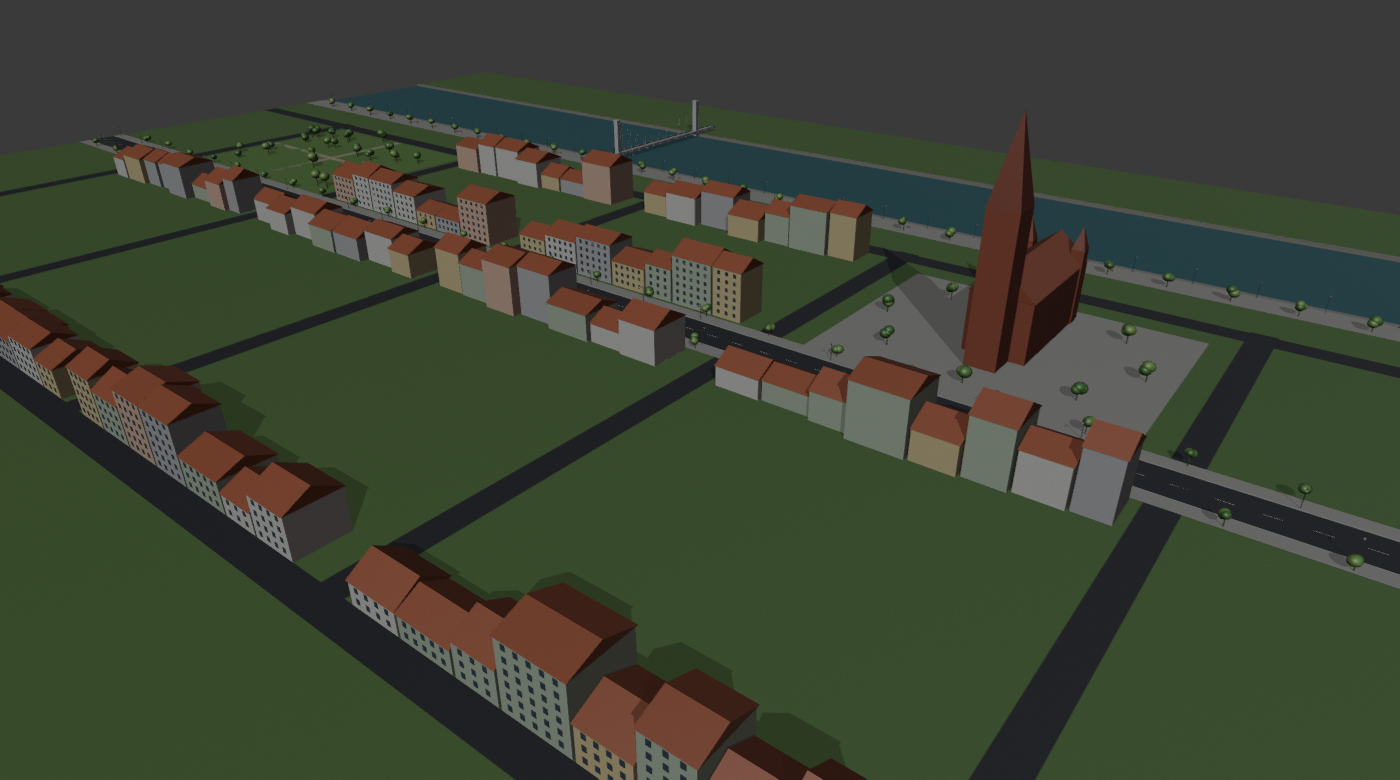
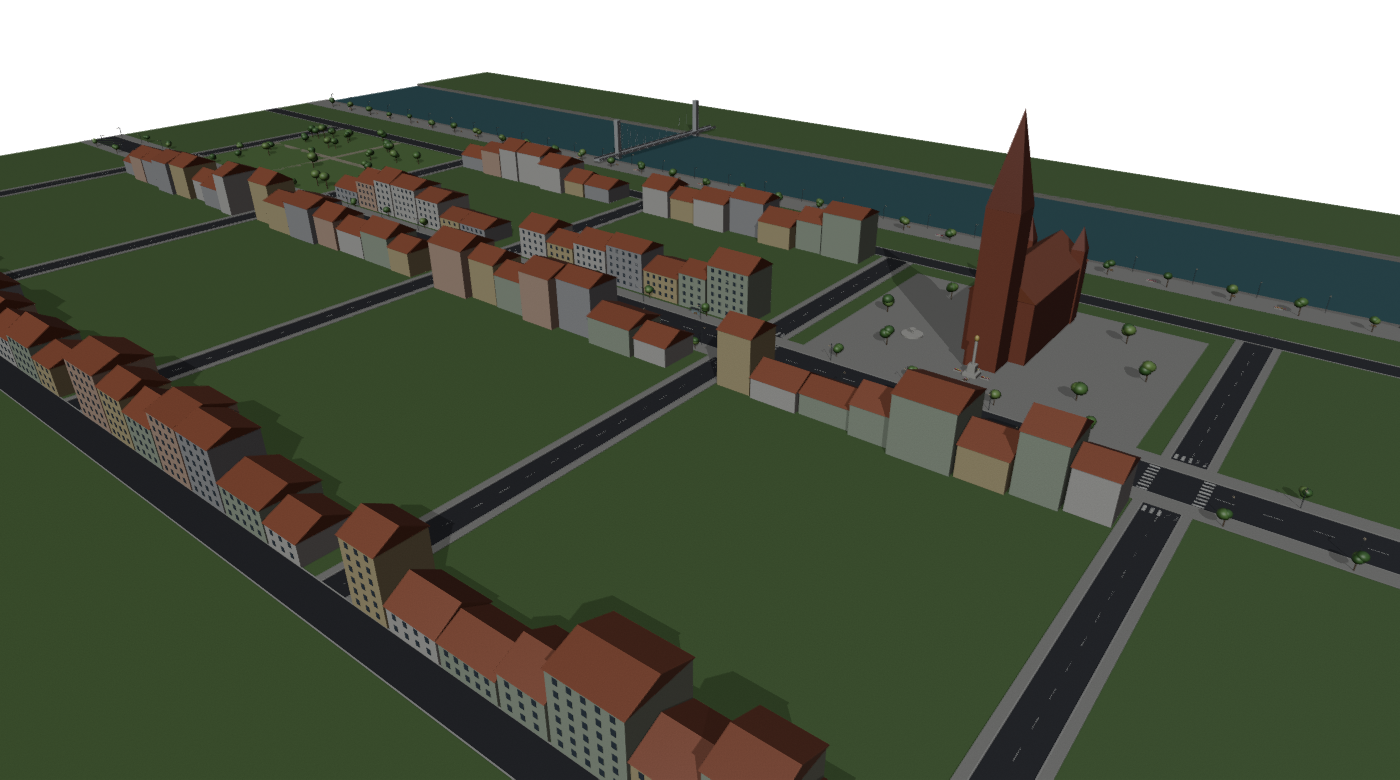
OSRP v1.0.4: /predlozak area templates, more props, Blender roads/crossings/landmarks
Claude-Session: https://claude.ai/code/session_01Q4UdcG53ZdSqpaSMwQCijq

diff --git a/launcher/renderer/index.html b/launcher/renderer/index.html
@@ -9,7 +9,7 @@
 <body>
   <!-- Title bar -->
   <div class="titlebar">
-    <div class="tb-brand"><img src="assets/icon.png" alt="" />OSRP LAUNCHER <span class="ver" id="ver">v1.0.3</span></div>
+    <div class="tb-brand"><img src="assets/icon.png" alt="" />OSRP LAUNCHER <span class="ver" id="ver">v1.0.4</span></div>
     <div class="tb-btns">
       <button id="btnMin" title="Minimiziraj">&#8211;</button>
       <button id="btnClose" class="close" title="Zatvori">&#10005;</button>

diff --git a/fivem-resources/osrp_accounts/server.js b/fivem-resources/osrp_accounts/server.js
@@ -103,7 +103,7 @@ const routes = {
     return [200, { ok: true }];
   },
 
-  'GET /status': () => [200, { ok: true, service: 'osrp_accounts', version: '1.0.3' }]
+  'GET /status': () => [200, { ok: true, service: 'osrp_accounts', version: '1.0.4' }]
 };
 
 SetHttpHandler((req, res) => {

diff --git a/map/blender/osijek_starter.py b/map/blender/osijek_starter.py
@@ -1,5 +1,5 @@
 """
-OSRP - Osijek starter map for Blender (V1.0.3)
+OSRP - Osijek starter map for Blender (V1.0.4)
 
 How to use:
   1. Open Blender (4.x), go to the "Scripting" tab.
@@ -10,6 +10,8 @@ How to use:
      - city blocks: buildings with rows of windows and pitched tile roofs
      - Tvrđa square with the red-brick cathedral and its spire
      - a city park with trees and paths, the pedestrian bridge
+     - v1.0.4: sidewalks + curbs on all streets, zebra crossings, clean intersections,
+       Holy Trinity column + fountain in Tvrđa, flower beds, bus stops
   4. Follow map/BLENDER-MAP.md to convert it with Sollumz and put it in FiveM.
 
 All sizes are in meters (GTA V uses meters too). Lamp heads use an emission
@@ -178,6 +180,12 @@ M_LEAVES = [
     material("osrp_leaves_light", (0.24, 0.42, 0.12)),
 ]
 M_WOOD = material("osrp_bench_wood", (0.40, 0.25, 0.12))
+M_FLOWERS = [material("osrp_flowers_red", (0.75, 0.10, 0.12)), material("osrp_flowers_pink", (0.85, 0.40, 0.60)),
+             material("osrp_flowers_yellow", (0.95, 0.78, 0.15))]
+M_SOIL = material("osrp_soil", (0.22, 0.15, 0.10))
+M_WHITE_STONE = material("osrp_white_stone", (0.82, 0.80, 0.74))
+M_GOLD = material("osrp_gold", (0.85, 0.65, 0.20), rough=0.3, metal=1.0)
+M_GLASS_STOP = material("osrp_busstop_glass", (0.55, 0.70, 0.75), rough=0.05)
 
 
 # ---------------------------------------------------------------- props
@@ -198,10 +206,10 @@ def tree(col, i, x, y, scale=1.0):
         blob(col, f"osrp_drvo_krosnja_{i}_{k}", (x + ox, y + oy, oz), r, random.choice(M_LEAVES), squash=0.85)
 
 
-def bench(col, i, x, y):
-    """bench along x, back on the +y side"""
+def bench(col, i, x, y, back=1):
+    """bench along x; back=+1 backrest on the +y side (you sit facing -y), back=-1 the other way"""
     box(col, f"osrp_klupa_sjed_{i}", (x, y, 0.42), (1.8, 0.45, 0.06), M_WOOD)
-    box(col, f"osrp_klupa_nasl_{i}", (x, y + 0.22, 0.6), (1.8, 0.06, 0.45), M_WOOD)
+    box(col, f"osrp_klupa_nasl_{i}", (x, y + 0.22 * back, 0.6), (1.8, 0.06, 0.45), M_WOOD)
     for k, dx in enumerate((-0.8, 0.8)):
         box(col, f"osrp_klupa_noga_{i}_{k}", (x + dx, y, 0), (0.08, 0.45, 0.42), M_POLE)
 
@@ -230,7 +238,10 @@ plane(col, "osrp_promenada", (0, PROM_Y, 0.12), (MAP_W, 16), M_WALK)
 
 # Europska avenija (y = 0): asphalt, dashed lines, curbs, sidewalks
 plane(col, "osrp_europska_avenija", (0, 0, 0.1), (MAP_W, ROAD_W), M_ROAD)
+CROSS_X = [-300, -150, 0, 150, 300]
 for i, x in enumerate(range(-395, 400, 12)):
+    if any(abs(x - cx) < 12 for cx in CROSS_X):
+        continue  # clean intersections
     box(col, f"osrp_crta_{i}", (x, -0.1, 0.1), (5, 0.18, 0.02), M_LINE)
 for side in (-1, 1):
     y_edge = side * (ROAD_W / 2)
@@ -240,17 +251,46 @@ for side in (-1, 1):
 # Side streets
 plane(col, "osrp_ulica_jug", (0, -180, 0.1), (MAP_W, SIDE_ROAD_W), M_ROAD)
 plane(col, "osrp_ulica_rijeka", (0, 125, 0.1), (MAP_W, SIDE_ROAD_W), M_ROAD)
-CROSS_X = [-300, -150, 0, 150, 300]
 for i, x in enumerate(CROSS_X):
     plane(col, f"osrp_ulica_poprecna_{i}", (x, -27, 0.12), (SIDE_ROAD_W, 316), M_ROAD)
+    # sidewalks + curbs on both sides of every cross street (not across the avenue)
+    for side in (-1, 1):
+        xe = x + side * SIDE_ROAD_W / 2
+        for (ya, yb, tag) in ((-175, -ROAD_W / 2 - 6.3, "j"), (ROAD_W / 2 + 6.3, 120, "s")):
+            box(col, f"osrp_rubnik_p_{i}_{side}_{tag}", (xe + side * 0.15, (ya + yb) / 2, 0.1), (0.3, yb - ya, 0.18), M_CURB)
+            box(col, f"osrp_plocnik_p_{i}_{side}_{tag}", (xe + side * 1.55, (ya + yb) / 2, 0.1), (2.5, yb - ya, 0.16), M_WALK)
+        # dashed centre line
+        for k, yy in enumerate(range(-170, 120, 10)):
+            if abs(yy) < ROAD_W / 2 + 7:
+                continue
+            box(col, f"osrp_crta_p_{i}_{k}_{side}", (x, yy, 0.12), (0.15, 4, 0.02), M_LINE) if side == 1 else None
+    # zebra crossings over the avenue (both sides of the intersection)
+    for zs in (-1, 1):
+        zx = x + zs * (SIDE_ROAD_W / 2 + 2.5)
+        for k in range(8):
+            box(col, f"osrp_zebra_av_{i}_{zs}_{k}", (zx, -ROAD_W / 2 + 1 + k * 2, 0.1), (3.0, 0.9, 0.02), M_LINE)
+    # zebra crossings over the cross street
+    for zs in (-1, 1):
+        zy = zs * (ROAD_W / 2 + 9)
+        for k in range(5):
+            box(col, f"osrp_zebra_p_{i}_{zs}_{k}", (x - SIDE_ROAD_W / 2 + 1 + k * 2, zy, 0.12), (0.9, 3.0, 0.02), M_LINE)
+
+# curbs along the side streets (south street and river street)
+for name, yc in (("jug", -180), ("rijeka", 125)):
+    for side in (-1, 1):
+        box(col, f"osrp_rubnik_{name}_{side}", (0, yc + side * (SIDE_ROAD_W / 2 + 0.15), 0.1), (MAP_W, 0.3, 0.18), M_CURB)
 
 # Street lights: avenue both sides every 30 m, promenade every 25 m
 li = 0
+def clear_of_cross(x, gap):
+    return all(abs(x - cx) >= gap for cx in CROSS_X)
+
+
 for x in range(-390, 391, 30):
-    if any(abs(x - cx) < 8 for cx in CROSS_X):
-        continue
-    street_light(col, li, x, ROAD_W / 2 + 1.2, -1); li += 1
-    street_light(col, li, x + 15, -ROAD_W / 2 - 1.2, 1); li += 1
+    if clear_of_cross(x, 8):
+        street_light(col, li, x, ROAD_W / 2 + 1.2, -1); li += 1
+    if clear_of_cross(x + 15, 8):
+        street_light(col, li, x + 15, -ROAD_W / 2 - 1.2, 1); li += 1
 for x in range(-385, 386, 25):
     street_light(col, li, x, PROM_Y + 6.5, 1); li += 1
 
@@ -264,7 +304,9 @@ pyramid(col, "osrp_katedrala_vrh", (TV_X, TV_Y - 20, 58), 8.6, 32, M_SPIRE)
 for k, (dx, dy) in enumerate(((-10, 36), (10, 36))):
     box(col, f"osrp_katedrala_mali_toranj_{k}", (TV_X + dx, TV_Y + dy, 0), (5, 5, 30), M_BRICK)
     pyramid(col, f"osrp_katedrala_mali_vrh_{k}", (TV_X + dx, TV_Y + dy, 30), 3.6, 9, M_SPIRE)
-for k in range(8):   # trees around the square
+for k in range(8):   # trees around the square (k=6 would stand in front of the Trinity column)
+    if k == 6:
+        continue
     a = k / 8 * math.tau
     tree(col, f"trg_{k}", TV_X + math.cos(a) * 50, TV_Y + math.sin(a) * 40, 1.1)
 
@@ -330,9 +372,55 @@ for i, x in enumerate(range(-380, 381, 25)):
 
 # Trees along the avenue sidewalks (between lamps)
 for i, x in enumerate(range(-375, 376, 30)):
-    if any(abs(x - cx) < 10 for cx in CROSS_X):
-        continue
-    tree(col, f"av_s_{i}", x, -ROAD_W / 2 - 5.2, 0.8)
-    tree(col, f"av_n_{i}", x + 15, ROAD_W / 2 + 5.2, 0.8)
+    if clear_of_cross(x, 10):
+        tree(col, f"av_s_{i}", x, -ROAD_W / 2 - 5.2, 0.8)
+    if clear_of_cross(x + 15, 10):
+        tree(col, f"av_n_{i}", x + 15, ROAD_W / 2 + 5.2, 0.8)
 
-print(f"[OSRP] Osijek map v1.0.3: {len(col.objects)} objects, {li} street lights, collection '{COL_NAME}'")
+# ---------------------------------------------------------------- landmarks & details
+def flower_bed(i, x, y, w=3.0, d=1.2):
+    box(col, f"osrp_cvjetnjak_rub_{i}", (x, y, 0), (w + 0.3, d + 0.3, 0.45), M_WHITE_STONE)
+    box(col, f"osrp_cvjetnjak_zemlja_{i}", (x, y, 0.45), (w, d, 0.05), M_SOIL)
+    for k in range(int(w * 3)):
+        blob(col, f"osrp_cvijece_{i}_{k}", (x - w / 2 + 0.2 + k * (w - 0.4) / max(1, int(w * 3) - 1), y + random.uniform(-d / 3, d / 3), 0.6),
+             random.uniform(0.18, 0.28), random.choice(M_FLOWERS), squash=0.7)
+
+
+def bus_stop(i, x, y, facing):
+    """shelter on the avenue sidewalk, open towards the road. facing=+1: road is at +y, facing=-1: road at -y"""
+    back = y - facing * 0.9
+    box(col, f"osrp_stanica_staklo_{i}", (x, back, 0.2), (4.0, 0.06, 2.3), M_GLASS_STOP)
+    for k, dx in enumerate((-2, 2)):
+        box(col, f"osrp_stanica_stup_{i}_{k}", (x + dx, back, 0.2), (0.1, 0.1, 2.5), M_POLE)
+    box(col, f"osrp_stanica_krov_{i}", (x, y - facing * 0.2, 2.7), (4.4, 1.8, 0.12), M_POLE)
+    bench(col, f"stanica_{i}", x, back + facing * 0.45, back=-facing)
+    box(col, f"osrp_stanica_znak_{i}", (x + 2.6, y + facing * 0.6, 0.2), (0.08, 0.08, 2.6), M_POLE)
+    box(col, f"osrp_stanica_ploca_{i}", (x + 2.6, y + facing * 0.6, 2.4), (0.05, 0.6, 0.6), M_LAMP)
+
+
+# Holy Trinity column (Kužni pil) in Tvrđa
+PIL_X, PIL_Y = TV_X, 30
+box(col, "osrp_pil_baza", (PIL_X, PIL_Y, 0.14), (5, 5, 1.2), M_WHITE_STONE)
+box(col, "osrp_pil_postolje", (PIL_X, PIL_Y, 1.34), (2.8, 2.8, 3.0), M_WHITE_STONE)
+cylinder(col, "osrp_pil_stup", (PIL_X, PIL_Y, 4.34), 0.55, 9.0, M_WHITE_STONE, verts=16)
+blob(col, "osrp_pil_kip", (PIL_X, PIL_Y, 14.2), 0.9, M_GOLD, squash=1.4)
+for k, (dx, dy) in enumerate(((-5, 0), (5, 0), (0, -5), (0, 5))):
+    flower_bed(f"pil_{k}", PIL_X + dx, PIL_Y + dy, 3.0 if dx else 1.2, 1.2 if dx else 3.0)
+
+# Fountain on the square
+FX, FY = TV_X - 32, 48
+cylinder(col, "osrp_fontana_bazen", (FX, FY, 0.14), 4.2, 0.6, M_WHITE_STONE, verts=24)
+cylinder(col, "osrp_fontana_voda", (FX, FY, 0.2), 3.8, 0.5, M_WATER, verts=24)
+cylinder(col, "osrp_fontana_stup", (FX, FY, 0.7), 0.35, 1.8, M_WHITE_STONE, verts=12)
+cylinder(col, "osrp_fontana_zdjela", (FX, FY, 2.5), 1.2, 0.3, M_WHITE_STONE, verts=16)
+
+# Bus stops on Europska avenija
+for i, x in enumerate((-225, -75, 75)):
+    bus_stop(i, x, -ROAD_W / 2 - 3.6, 1)
+    bus_stop(i + 10, x + 40, ROAD_W / 2 + 3.6, -1)
+
+# Flower beds along the promenade
+for i, x in enumerate(range(-350, 351, 50)):
+    flower_bed(f"prom_{i}", x, PROM_Y - 0.5, 4.0, 1.2)
+
+print(f"[OSRP] Osijek map v1.0.4: {len(col.objects)} objects, {li} street lights, collection '{COL_NAME}'")

diff --git a/README.md b/README.md
@@ -5,7 +5,7 @@
 A free launcher for **OSRP (Osijek Roleplay)**, a GTA V server (it runs on FiveM).
 It uses the player's **own installed GTA V** (`GTA5.exe`). Players have to own a legal copy of the game.
 
-> **Version:** 1.0.3 (V1). Stays at V1 until V2 is approved.
+> **Version:** 1.0.4 (V1). Stays at V1 until V2 is approved.
 
 ## What V1 does
 
@@ -125,8 +125,8 @@ The installer ends up in `launcher/dist/`.
 ```
 git remote add origin https://github.com/jakov543/Osrp.git
 git push -u origin main
-git tag v1.0.3
-git push origin v1.0.3
+git tag v1.0.4
+git push origin v1.0.4
 ```
 GitHub Actions builds the Windows installer and puts it on the **Releases** page.
 
@@ -148,6 +148,10 @@ Admins place real GTA V props in-game. Everything is saved on the server and eve
 | `/prop prop_bench_09` | **any** GTA V prop by its name |
 | `/proplinija lampa 10 25 2` | a row: 10 lamps, every 25 m, **on both sides** of where you face (a whole street in one command) |
 | `/proplinija drvo 15 12` | an alley of 15 trees, every 12 m |
+| **`/predlozak ulica 120 14`** | **a whole street**: stand in the MIDDLE of the road and look along it. Lamps on both sides, tree alley, benches, bins, bollards, a hydrant (120 m long, road 14 m wide) |
+| **`/predlozak trg 18`** | **a square**: stand in the center. Fountain, ring of trees, benches facing the center, lamps, bushes |
+| **`/predlozak park 40 60`** | **a park** 40×60 m: stand at the start of the path. Path lamps, benches, rows of trees, bushes |
+| **`/predlozak promenada 150`** | **a promenade**: props on your LEFT (e.g. along water). Lamps, trees, benches |
 | `/propobrisi` | delete the nearest placed prop (within 5 m) |
 | `/propundo` | delete the last placed prop |
 | `/propovi` | list of short names |
@@ -162,6 +166,10 @@ Starter city script and full guide: [`map/BLENDER-MAP.md`](map/BLENDER-MAP.md)
 | Street | Night |
 |---|---|
 | ![street](map/blender/preview_street.png) | ![night](map/blender/preview_night.png) |
+
+| Intersection | Tvrđa (Holy Trinity column) |
+|---|---|
+| ![intersection](map/blender/preview_intersection.png) | ![tvrdja](map/blender/preview_tvrdja.png) |
 
 ## Requirements for players
 - Windows 10/11
